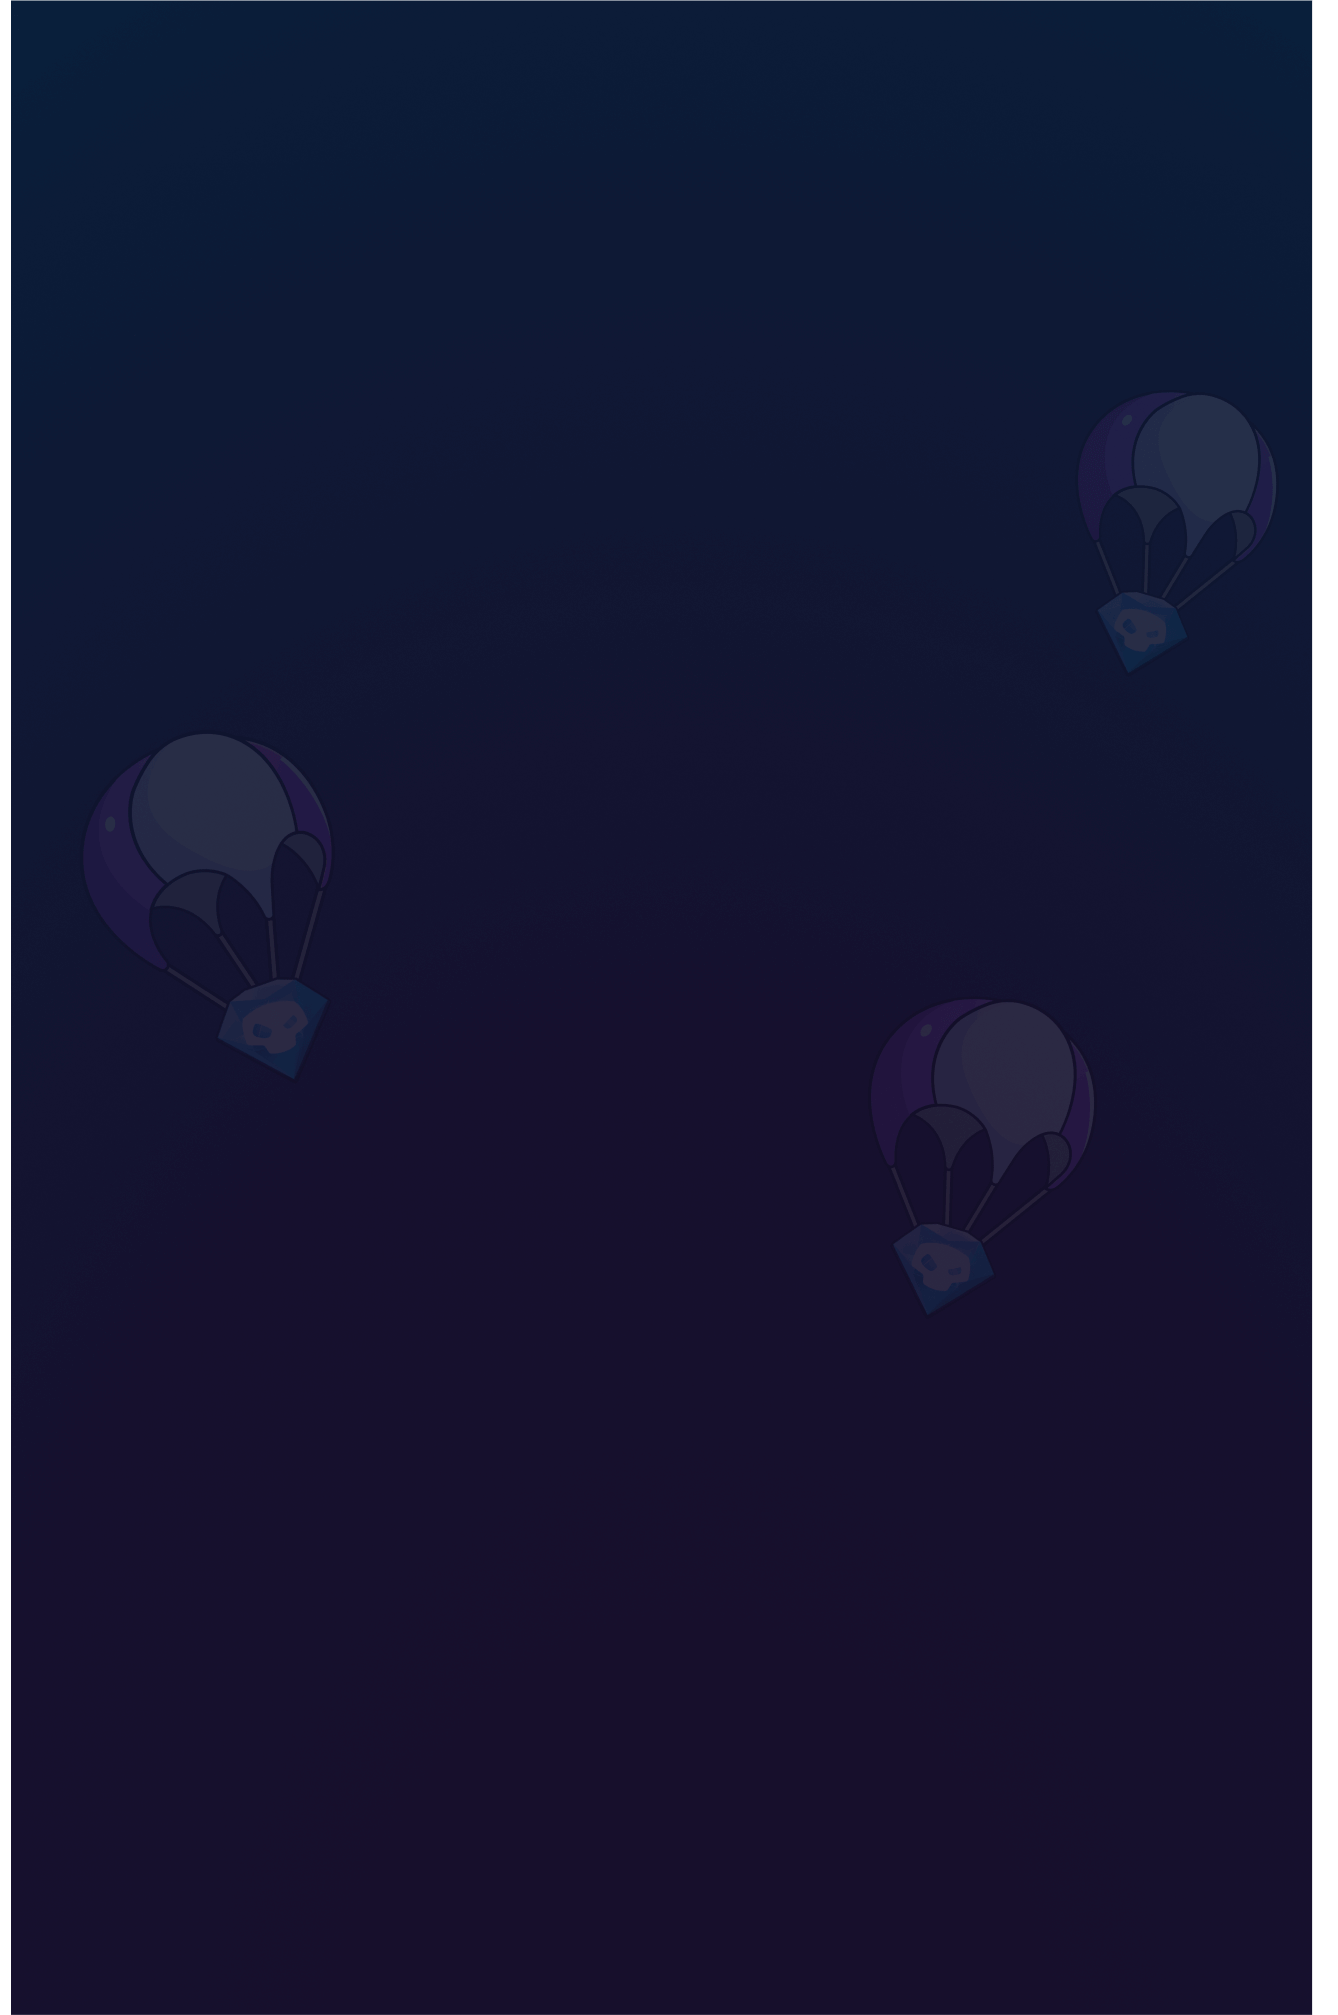
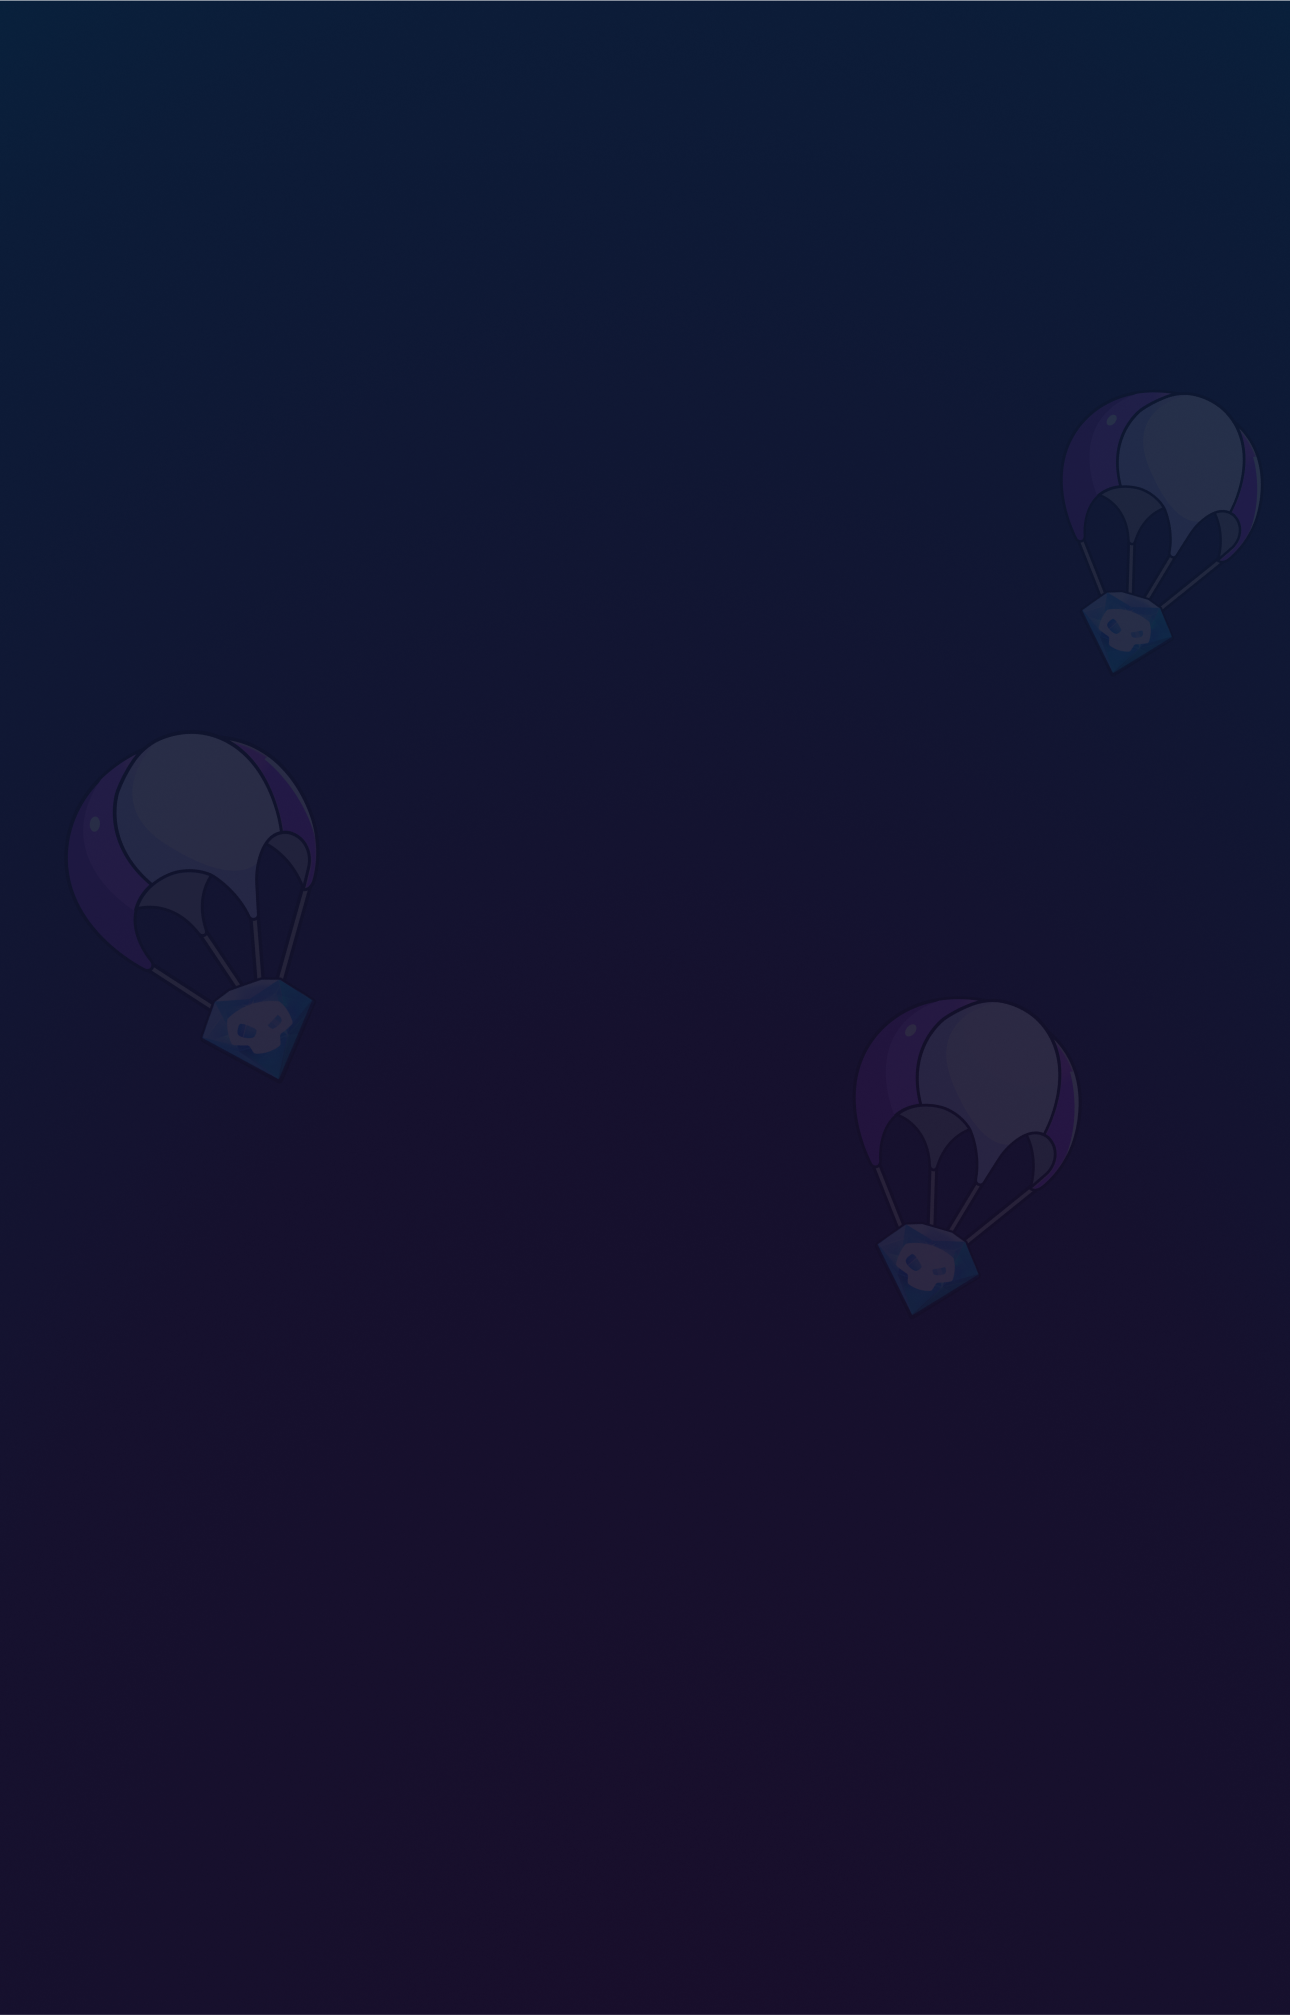
feat: fix assets, fix some styles, set different initial values for counter mock data

Changed region(s): [[0.9612, 0.0, 1.0, 1.0], [0.0, 0.0, 0.031, 1.0], [0.7752, 0.4923, 0.8062, 0.5231]]

diff --git a/src/app/app.component.scss b/src/app/app.component.scss
@@ -4,13 +4,16 @@
   height: 100%;
   display: flex;
   flex-direction: column;
-  background-size: cover;
+  background-size: 100%, cover;
   background-repeat: no-repeat;
-  background-position: 0;
-  background-image: url(../assets/drop-bg.png);
+  background-position: center, 0;
+  background-image: url(../assets/stars.png), url(../assets/drop-bg.png);
+
 
   .drop-bank {
-    margin-top: -5vh;
+    position: relative;
+    z-index: 1;
+    margin-top: 5vh;
     height: 42vh;
     background-size: auto 35vh;
     background-repeat: no-repeat;
@@ -18,16 +21,24 @@
     background-image: url(../assets/drop-bank-bg.png);
 
     .balance {
-      margin-left: -8vw;
-      margin-top: 5vh;
+      margin-left: -5vw;
+      margin-top: 3.5vh;
+
       .main-label {
         @include text-white-outline-brown();
         font-size: 3.5vh;
+        font-feature-settings: "tnum";
+        font-variant-numeric: tabular-nums;
+        width: 235px;
+
+        &_big-number {
+          font-size: 3vh;
+        }
       }
 
       img {
         height: 5vh;
-        margin: 0 2vw 0.5vh 0;
+        margin: 0 0.5vw 0.5vh 0;
       }
     }
 
@@ -51,7 +62,7 @@
     }
 
     .instructions-list {
-      margin-left: -12vw;
+      padding-inline-start: 0;
 
       .main-label {
         color: #865858;
@@ -65,12 +76,12 @@
     position: absolute;
     bottom: 0;
     width: 100%;
-    height: 57vh;
-    padding-bottom: 2vh;
+    height: 71vh;
+    padding-top: clamp(0px, 82vw, 360px);
     background-size: 100%;
     background-repeat: no-repeat;
-    background-position: 0;
-    background-image: url(../assets/drop-moon-bottom.png);
+    background-position: center bottom calc(220px - 55vw);
+    background-image: url('../assets/drop-moon-bottom.png');
   }
 
   .main-label.boinkers-label {
@@ -85,6 +96,7 @@
     width: 68vw;
 
     .button-icon {
+      position: relative;
       width: 5vh;
       margin-right: 2vw;
     }
@@ -115,5 +127,3 @@
     }
   }
 }
-
-

diff --git a/src/app/app.component.ts b/src/app/app.component.ts
@@ -25,10 +25,10 @@ export class AppComponent {
 
   private readonly injector = inject(Injector);
 
-  protected readonly completedBoinkers = signal(13);
   private readonly updatePoopIntervalMs = signal(50);
-  private readonly initialPoopCount = signal(1);
-  protected readonly poopPerHour = signal(120000.2518);
+  private readonly initialPoopCount = signal(32450000.4567);
+  protected readonly poopPerHour = signal(12.2518);
+  protected readonly completedBoinkers = signal(13);
 
   private readonly poopPerMs = computed(
     () => this.poopPerHour() / this.millisecondsInHour,
@@ -50,4 +50,8 @@ export class AppComponent {
   );
 
   protected readonly currentPoopCount = toSignal(this.currentPoopCount$);
+
+  protected readonly isBigNumber = computed(
+    () => Number(this.currentPoopCount()) >= 1_000_000,
+  );
 }

diff --git a/src/app/app.component.html b/src/app/app.component.html
@@ -2,9 +2,11 @@
   <div class="drop-bank flex-column justify-center">
     <div class="balance flex-row align-center justify-center">
       <img src="../assets/poop.png" alt="shit coin icon" />
-      <span class="main-label shadow">{{
-        currentPoopCount() | number: numberPipeFormat
-      }}</span>
+      <span
+        class="main-label shadow"
+        [class.main-label_big-number]="isBigNumber()"
+        >{{ currentPoopCount() | number: numberPipeFormat }}</span
+      >
     </div>
     <div class="flex-row justify-center">
       <div class="profit-per-hour flex-row align-center justify-center">

diff --git a/src/styles.scss b/src/styles.scss
@@ -2,7 +2,12 @@
 @import 'fonts';
 @import 'mixins';
 
-html, body.mat-typography {
+* {
+  box-sizing: border-box;
+}
+
+
+html, body {
   margin: 0;
   height: 100%;
   width: 100%;
@@ -17,7 +22,7 @@ html, body.mat-typography {
   z-index: 0;
 }
 
-body.mat-typography {
+body {
   .app-container {
     background-image: url(/assets/img/stars.png);
     background-size: 100% 100%;
